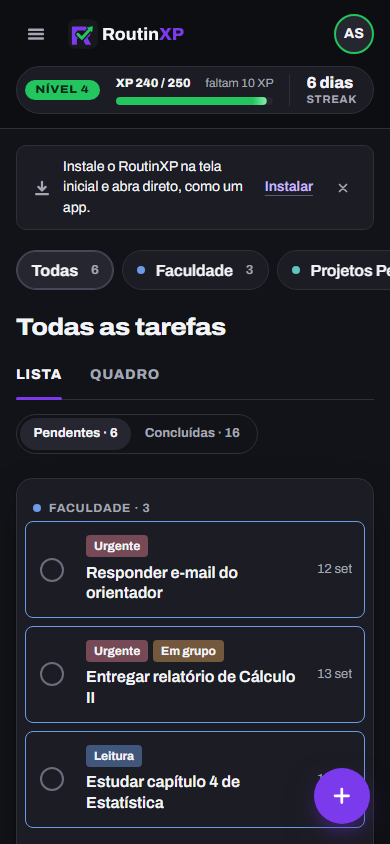
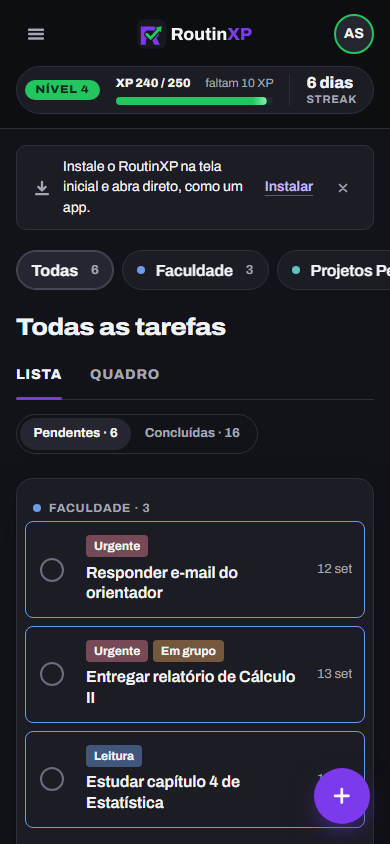
Celular: marca RoutinXP centralizada na barra superior
Barra do celular em grade 1fr | auto | 1fr: menu à esquerda, marca no centro,
avatar à direita. Computador sem mudança. DESIGN.md e PROGRESS atualizados.

Changed region(s): [[0.1846, 0.0308, 0.6462, 0.0616]]

diff --git a/src/pages/tarefas.css b/src/pages/tarefas.css
@@ -1169,8 +1169,9 @@
 /* ---------- Telas menores ---------- */
 
 @media (max-width: 59.99rem) {
+  /* Celular: laterais iguais para a marca ficar no centro; menu à esquerda, avatar à direita. */
   .topo {
-    grid-template-columns: auto minmax(0, 1fr) auto;
+    grid-template-columns: minmax(0, 1fr) auto minmax(0, 1fr);
     grid-template-areas:
       'menu logo acoes'
       'nivel nivel nivel';
@@ -1180,10 +1181,12 @@
 
   .topo__menu {
     display: grid;
+    justify-self: start;
   }
 
   .topo__logo {
     display: block;
+    justify-self: center;
   }
 
   .topo__nivel {

diff --git a/DESIGN.md b/DESIGN.md
@@ -498,7 +498,7 @@ A cool, near-black neutral stack with two saturated accents whose roles never ov
 
 **Simple pages (Perfil).** One column of panels, max 44rem wide and centered in the content column (it follows the side menu open or collapsed), 1.25rem apart, same page padding. Panels pad 1.75rem (1.25rem at 60rem and below). Field pairs sit in an auto-fit two-column grid (columns at least 9.5rem, 1rem gap) that stacks on its own when narrow.
 
-**At 60rem and below (single column).** The side menu leaves the grid and becomes an off-canvas drawer; the top bar gains a menu button and the logo at the left, keeps the avatar at the right, and wraps the level pill to a full-width second row. "+ Nova tarefa" leaves the Tarefas title row; the FAB (present at every width) remains the create action. On Tarefas the rail becomes a horizontally scrolling chip row that bleeds to both screen edges (negative margin equal to the page padding, scrollbar hidden), and the segmented filter returns to flow under the tabs. The page title drops to 1.5rem; dialog field pairs stack; the toast lifts to clear the FAB; the Painel level panel wraps its XP bar to a full-width second line.
+**At 60rem and below (single column).** The side menu leaves the grid and becomes an off-canvas drawer; the top bar gains a menu button at the left and the logo centered (equal 1fr sides), keeps the avatar at the right, and wraps the level pill to a full-width second row. "+ Nova tarefa" leaves the Tarefas title row; the FAB (present at every width) remains the create action. On Tarefas the rail becomes a horizontally scrolling chip row that bleeds to both screen edges (negative margin equal to the page padding, scrollbar hidden), and the segmented filter returns to flow under the tabs. The page title drops to 1.5rem; dialog field pairs stack; the toast lifts to clear the FAB; the Painel level panel wraps its XP bar to a full-width second line.
 
 **At 48rem and below.** Quadro columns sit side by side at 86% width and scroll-snap horizontally; the Lista panel's inline padding tightens to 0.5rem.
 

diff --git a/PROGRESS.md b/PROGRESS.md
@@ -117,6 +117,8 @@ Feito:
   - Clicar em qualquer etiqueta alterna todas entre os dois modos, e a escolha fica salva no navegador (`src/lib/tagsCompactas.js`). O clique não abre a tarefa.
 - No formulário e no Perfil, a tag é um quadradinho de cor (a categoria continua sendo ponto redondo).
 - Página de Perfil centralizada na área de conteúdo, com o menu aberto ou recolhido (desvio medido: 0 px).
+- Etiquetas e contorno publicados (push autorizado pelo usuário).
+- No celular, a marca RoutinXP fica **centralizada** na barra superior (menu à esquerda, avatar à direita). No computador nada muda.
 - A borda de cima virou **contorno completo**: cada tarefa é um card com 1px na cor da categoria nos quatro lados, cantos de 8px, 0,5rem entre os cards. Nas concluídas o contorno fica a 40%.
 - DESIGN.md atualizado. Capturas `etiquetas-*.png` em `.impeccable/review/tags/` e `perfil-centralizado.png` em `.impeccable/review/ajustes/`.
 
